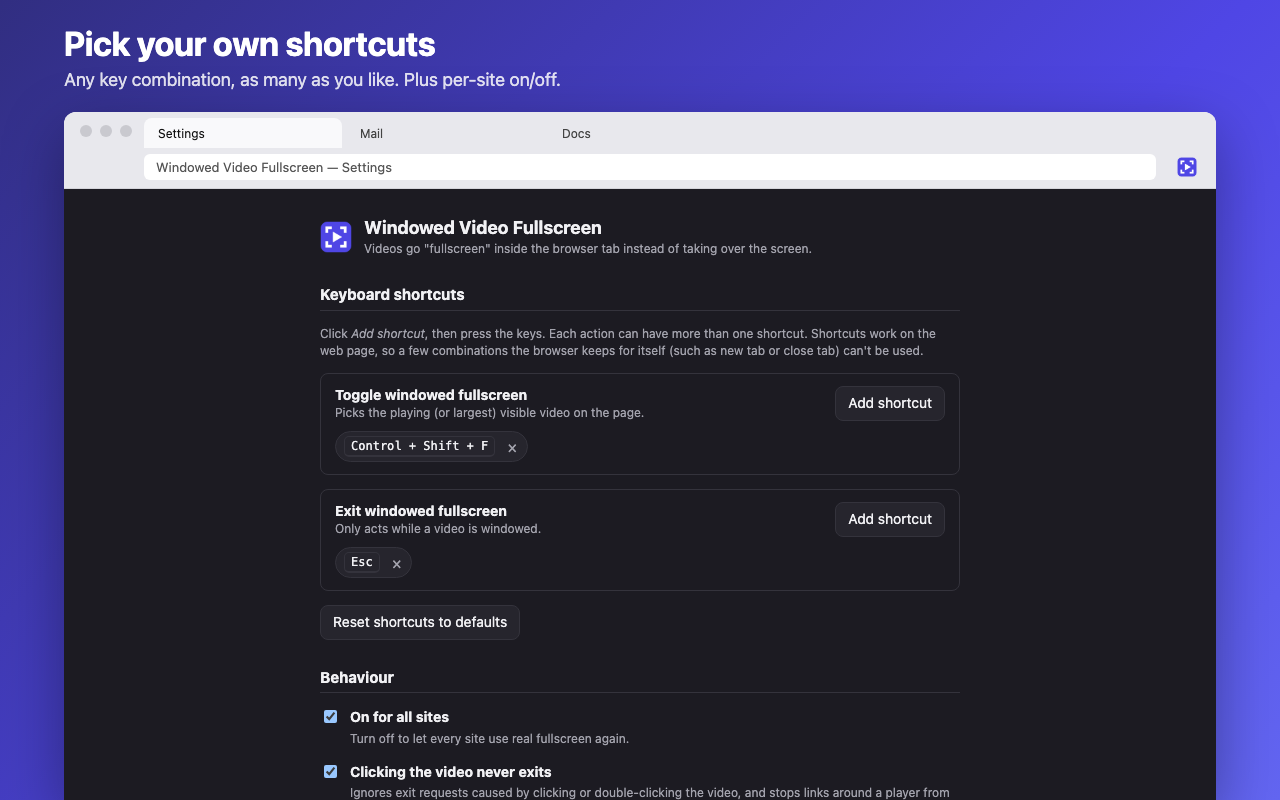
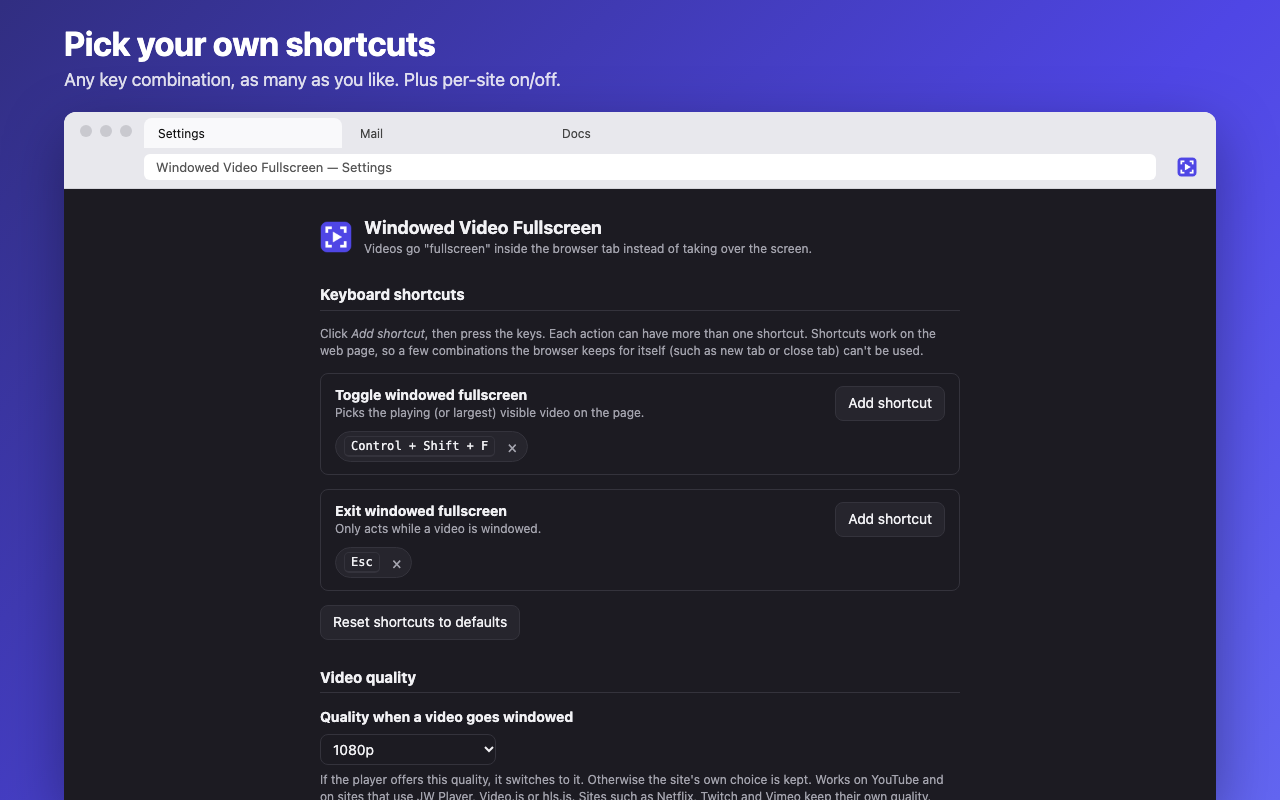
2.1.1: video quality in the popup and in its own settings section

Changed region(s): [[0.25, 0.8438, 0.75, 1.0]]

diff --git a/src/options/options.html b/src/options/options.html
@@ -49,6 +49,24 @@
       <button id="reset-shortcuts">Reset shortcuts to defaults</button>
     </section>
 
+    <section aria-labelledby="h-quality">
+      <h2 id="h-quality">Video quality</h2>
+      <div class="field">
+        <label for="quality"><strong>Quality when a video goes windowed</strong></label>
+        <select id="quality">
+          <option value="">Keep the site's choice</option>
+          <option value="2160">2160p (4K)</option>
+          <option value="1440">1440p</option>
+          <option value="1080">1080p</option>
+          <option value="720">720p</option>
+          <option value="480">480p</option>
+          <option value="360">360p</option>
+        </select>
+        <p class="muted small">If the player offers this quality, it switches to it. Otherwise the site's own choice is kept.
+          Works on YouTube and on sites that use JW Player, Video.js or hls.js. Sites such as Netflix, Twitch and Vimeo keep their own quality.</p>
+      </div>
+    </section>
+
     <section aria-labelledby="h-behaviour">
       <h2 id="h-behaviour">Behaviour</h2>
 
@@ -75,21 +93,6 @@
         <span><strong>Ignore the toggle shortcut while typing</strong><br>
           <span class="muted small">Recommended if your shortcut is a single key.</span></span>
       </label>
-
-      <div class="field">
-        <label for="quality"><strong>Video quality when windowed</strong></label>
-        <select id="quality">
-          <option value="">Keep the site's choice</option>
-          <option value="2160">2160p (4K)</option>
-          <option value="1440">1440p</option>
-          <option value="1080">1080p</option>
-          <option value="720">720p</option>
-          <option value="480">480p</option>
-          <option value="360">360p</option>
-        </select>
-        <p class="muted small">Switches to this quality when a video goes windowed, if the player offers it. Otherwise the site's own choice is kept.
-          Works on YouTube and on sites that use JW Player, Video.js or hls.js. Sites such as Netflix, Twitch and Vimeo keep their own quality.</p>
-      </div>
 
       <fieldset>
         <legend><strong>Layout method</strong></legend>

diff --git a/amo/shot.html b/amo/shot.html
@@ -21,7 +21,7 @@
   .ext { position: absolute; right: 18px; top: 44px; width: 22px; height: 22px; border-radius: 5px; background: url(../src/icons/icon-32.png) center / 20px no-repeat; }
   .ext.on { outline: 2px solid #4f46e5; outline-offset: 2px; }
   iframe { position: absolute; top: 77px; left: 0; border: 0; width: 100%; height: calc(100% - 77px); background: #fff; }
-  .popup { position: absolute; left: auto; right: 10px; top: 72px; width: 300px; height: 272px; border: 0; border-radius: 8px; box-shadow: 0 10px 30px rgba(0,0,0,.3); z-index: 2; background: #1c1b22; }
+  .popup { position: absolute; left: auto; right: 10px; top: 72px; width: 300px; height: 340px; border: 0; border-radius: 8px; box-shadow: 0 10px 30px rgba(0,0,0,.3); z-index: 2; background: #1c1b22; }
   .note { position: absolute; z-index: 3; background: #111827; color: #fff; font-size: 15px; padding: 10px 14px; border-radius: 8px; box-shadow: 0 6px 20px rgba(0,0,0,.35); }
 </style>
 </head>
@@ -85,7 +85,7 @@ const scenes = {
   },
   "4": async () => {
     $("h").textContent = "One click from the toolbar";
-    $("s").textContent = "Toggle the video, or switch the extension off for a site.";
+    $("s").textContent = "Toggle the video, pick the quality, or switch it off for a site.";
     page.src = "/demo/index.html";
     page.onload = () => {
       const d = page.contentDocument;

diff --git a/src/popup/popup.html b/src/popup/popup.html
@@ -19,6 +19,19 @@
     <button id="toggle" class="primary" disabled>Toggle windowed fullscreen</button>
     <p class="small muted">Shortcut: <span id="shortcut"></span></p>
 
+    <label class="quality">
+      <span>Video quality</span>
+      <select id="quality">
+        <option value="">Site's choice</option>
+        <option value="2160">2160p (4K)</option>
+        <option value="1440">1440p</option>
+        <option value="1080">1080p</option>
+        <option value="720">720p</option>
+        <option value="480">480p</option>
+        <option value="360">360p</option>
+      </select>
+    </label>
+
     <div class="rows">
       <label class="check">
         <input type="checkbox" id="site">

diff --git a/src/popup/popup.js b/src/popup/popup.js
@@ -20,6 +20,7 @@
       $("shortcut").textContent = "none set";
     }
     $("global").checked = settings.enabled;
+    $("quality").value = settings.quality;
     $("site").checked = !WVFS.hostDisabled(host, settings.disabledSites);
     $("site").disabled = !host;
   }
@@ -61,6 +62,8 @@
     } catch (_) {}
     window.close();
   });
+
+  $("quality").addEventListener("change", (e) => api.storage.sync.set({ quality: e.target.value }));
 
   $("global").addEventListener("change", async (e) => {
     await api.storage.sync.set({ enabled: e.target.checked });

diff --git a/src/popup/popup.css b/src/popup/popup.css
@@ -32,6 +32,21 @@ main {
 
 #host { word-break: break-all; }
 
+.quality {
+  display: flex;
+  align-items: center;
+  justify-content: space-between;
+  gap: 8px;
+}
+.quality select {
+  font: inherit;
+  padding: 4px 6px;
+  border: 1px solid var(--line);
+  border-radius: var(--radius);
+  background: var(--bg);
+  color: var(--fg);
+}
+
 footer {
   border-top: 1px solid var(--line);
   padding-top: 10px;

diff --git a/CHANGELOG.md b/CHANGELOG.md
@@ -1,5 +1,9 @@
 # Changelog
 
+## 2.1.1 — 2026-11-26
+
+- Video quality is easier to find: it's in the toolbar popup, and has its own section near the top of the settings page.
+
 ## 2.1.0 — 2026-11-26
 
 - **Preferred video quality**: when a video goes windowed, it switches to 1080p (or the quality you pick in settings) if the player offers it, and otherwise keeps the site's choice. Works on YouTube, JW Player, Video.js and hls.js players.
